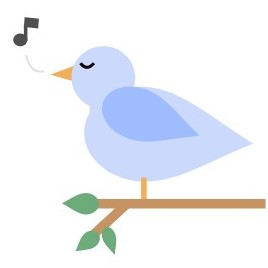
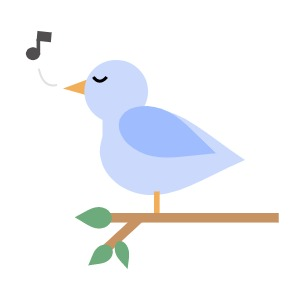
a

diff --git a/ContactUs.html b/ContactUs.html
@@ -24,8 +24,8 @@
  <h1>Contact Us</h1>
  <br> </br>
  <h2>For more information, please contact Mrs. Dela-Xiong or Ms. Terry Nguyen.</h2>
- <h2>Mrs. Dela-Xiong: mdela-xiong@ggusd.net</h2>
- <h2>Ms. Terry Nguyen: tnguyen19@ggusd.net</h2>
+ <h2>Mrs. Dela-Xiong: mdela-xiong@ggusd.us</h2>
+ <h2>Ms. Terry Nguyen: tnguyen19@ggusd.us</h2>
  
  <img src = "images/2flowers.png" height = "200">
  </div></div>

diff --git a/Quotes.html b/Quotes.html
@@ -38,7 +38,7 @@
     <h2>"Not loving yourself back is also unrequited love."</h2>
     <h3>- Tablo, <i>Blonote</i></h3>
     
-    <img src = "images/birb.jpg" height = "150">
+    <img src = "images/birb.jpg" height = "230" width = "230">
  </div></div>
 </body>
 </html>
